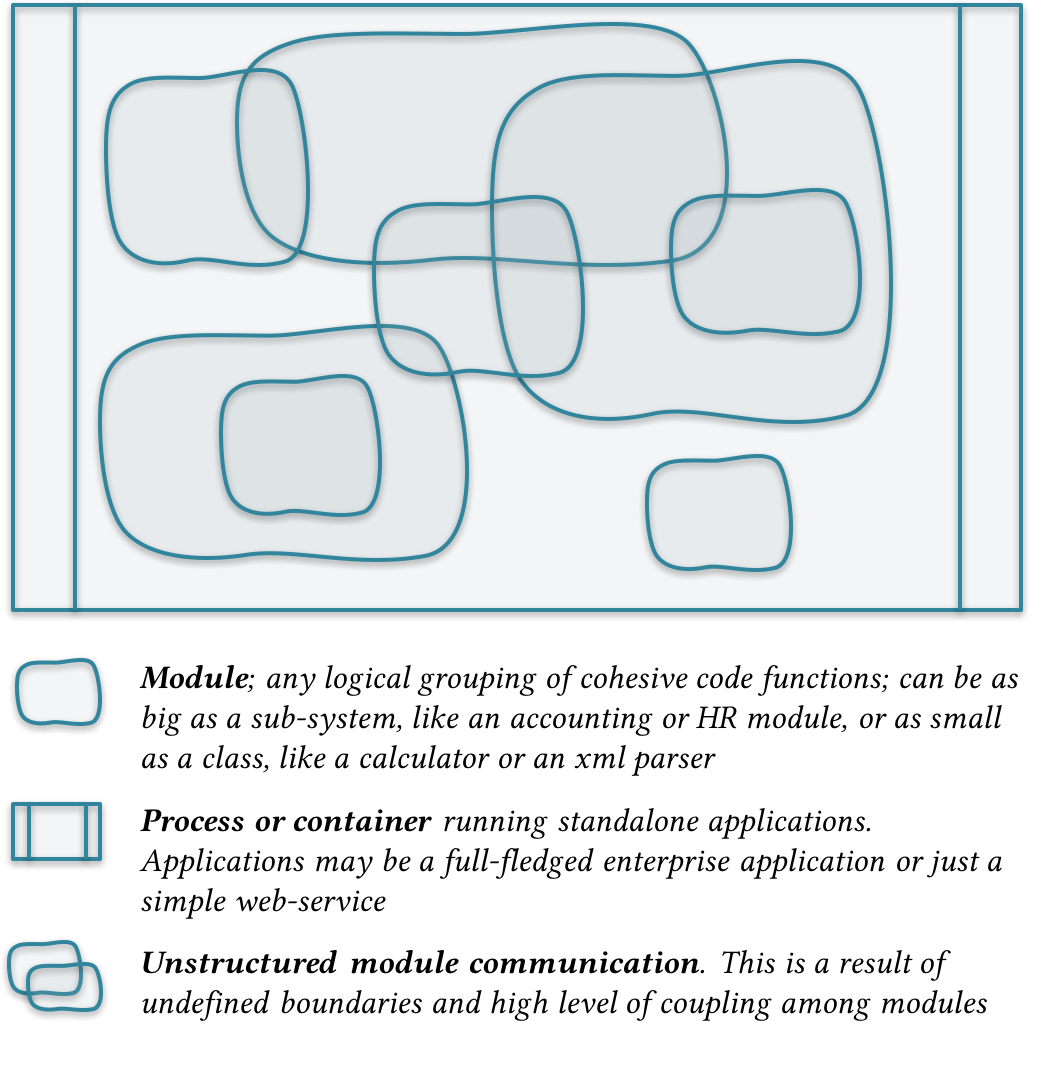
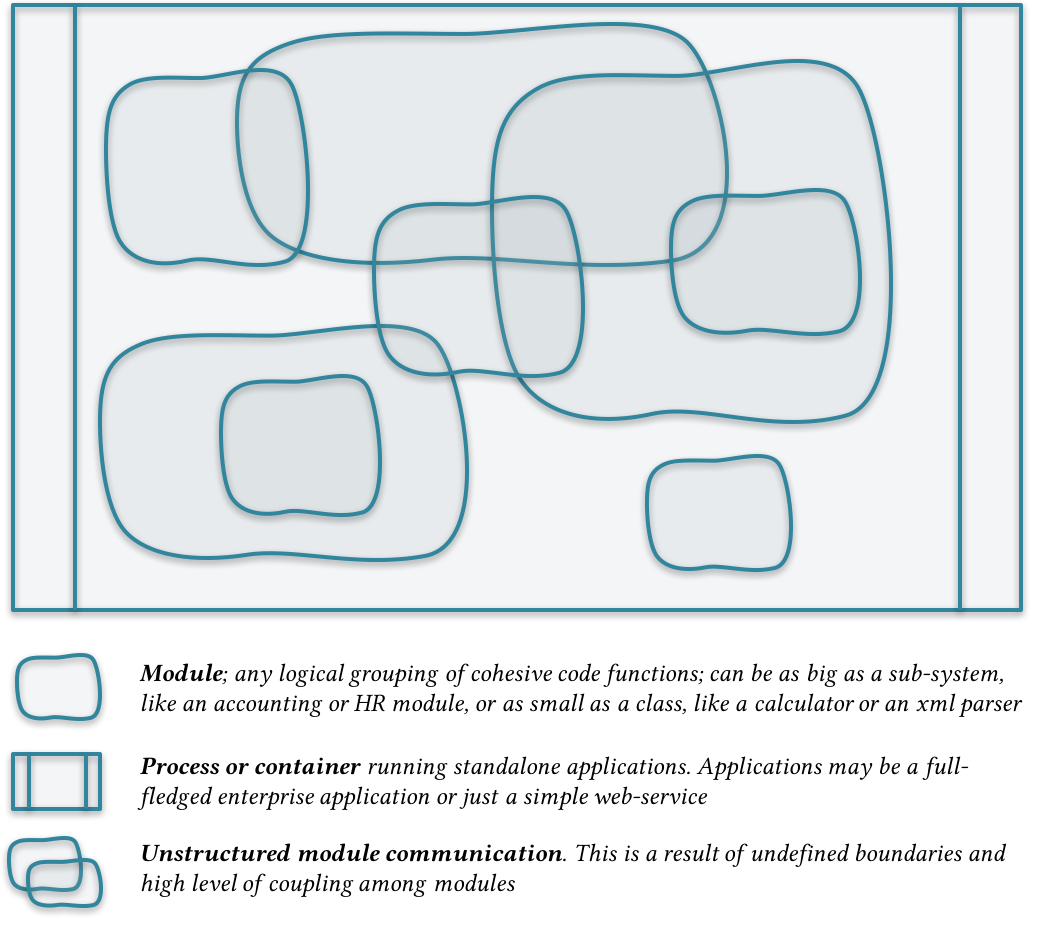
updated diagram font

Changed region(s): [[0.0, 0.0, 0.979, 0.9989]]

diff --git a/manuscript/main.md b/manuscript/main.md
@@ -455,7 +455,7 @@ The journey from cluttered code to module, components, or services is progressiv
 
 ![](images/divideandconquer/modules-unstructured.png)
 
-Gradually, we start moving methods and classes around to let modules emerge and polish their interfaces. Remember, only safe refactoring with support of an automated refactoring tools are allowed. In most of the cases, you can depend on the following refactorings:
+Gradually, we start moving methods and classes around to let modules emerge and become more apparent. Remember, only safe refactoring with support of an automated refactoring tools are allowed. In most of the cases, you can depend on the following refactorings:
 
 * Move Method
 * Move Class
@@ -463,7 +463,7 @@ Gradually, we start moving methods and classes around to let modules emerge and 
 * Extract Class/Interface
 * Extract Method
 
-The result are clearer and more apparent module boundaries and better manifestation of module interfaces.
+This results in clearer module boundaries and better manifestation of module interfaces.
 
 ![](images/divideandconquer/modules-structured.png)
 
@@ -471,6 +471,7 @@ Next, we should concentrate on more decoupling modules and create a solo-deploya
 
 * Change Method Signature (to remove or reorder method parameters)
 * Introduce Parameter or Parameter Object
+* Turn Public Methods Private
 
 ![](images/divideandconquer/components.png)
 
